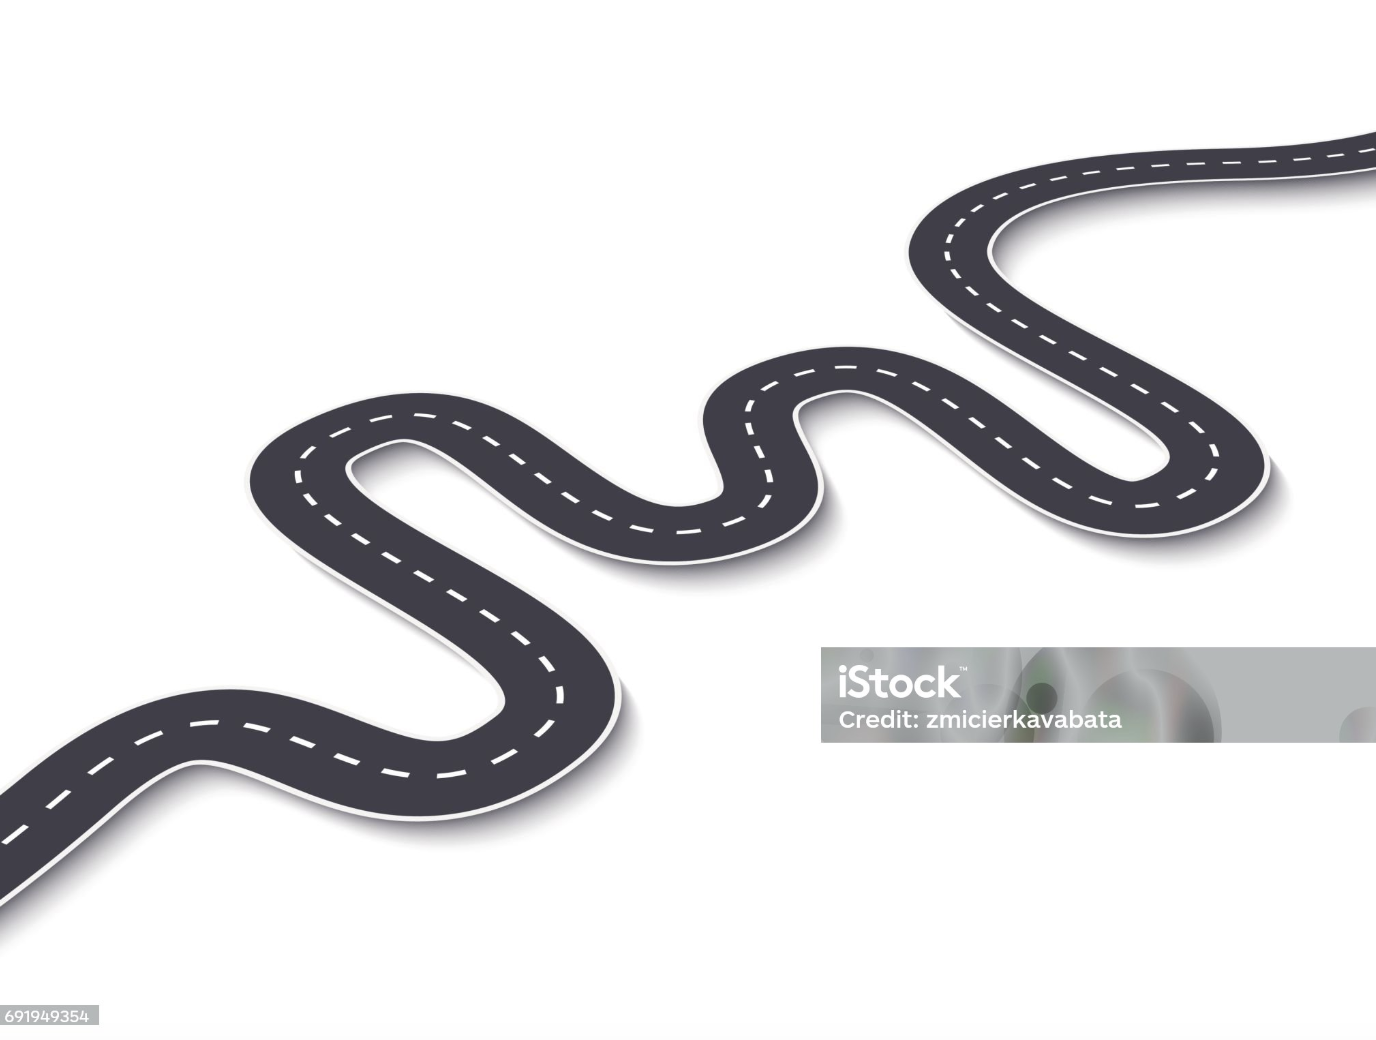
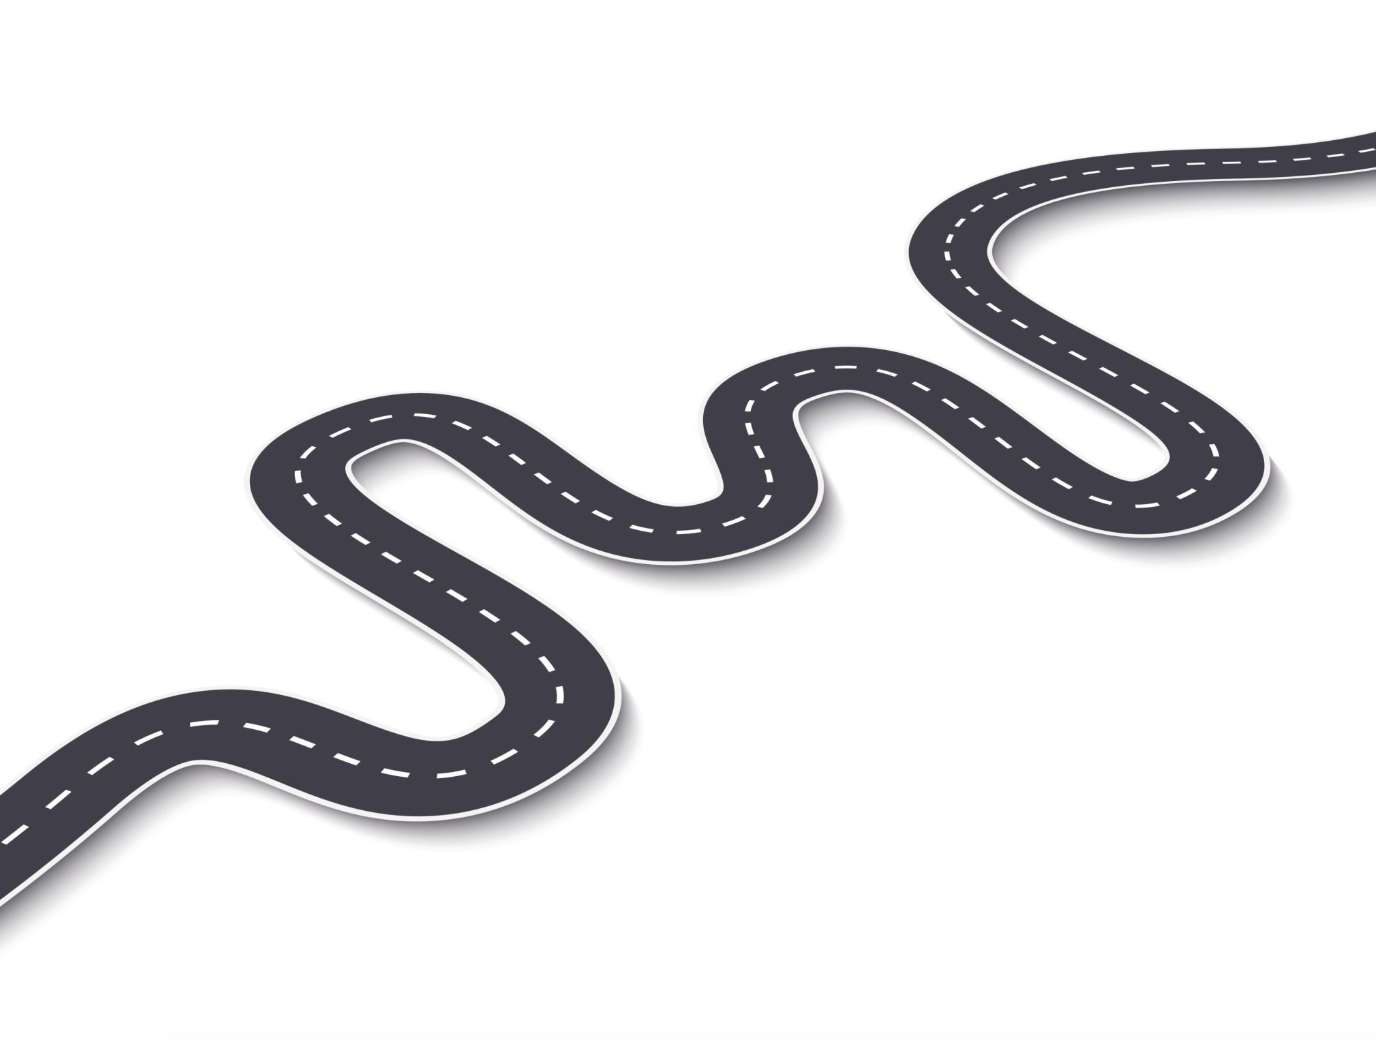
Updated road image and input border

Changed region(s): [[0.5938, 0.6154, 1.0, 0.7385], [0.0, 0.9538, 0.0938, 0.9846]]

diff --git a/src/components/footer/footer.css b/src/components/footer/footer.css
@@ -1,6 +1,4 @@
-/* Add any additional custom styles here if needed */
-
-footer h2 {
+Add any additional custom styles here if needed footer h2 {
     font-size: 1rem;
     font-weight: 700;
     color: white;
@@ -43,6 +41,7 @@ footer h2 {
     height: 3rem;
     padding: 1rem;
     color: #666;
+    border: 1px solid lightgray;
 }
 
 .footer-input::placeholder {
@@ -96,15 +95,10 @@ footer h2 {
     font-family: 'Crimson Text', serif;
 }
 
-/* input::placeholder {
+input::placeholder {
     color: #666;
     font-size: 1rem;
-} */
-/* input:focus {
-    outline: none;
-    ring: 2px;
-    ring-color: #E94234;
-} */
+}
 
 @media screen and (min-width: 768px) {
 
